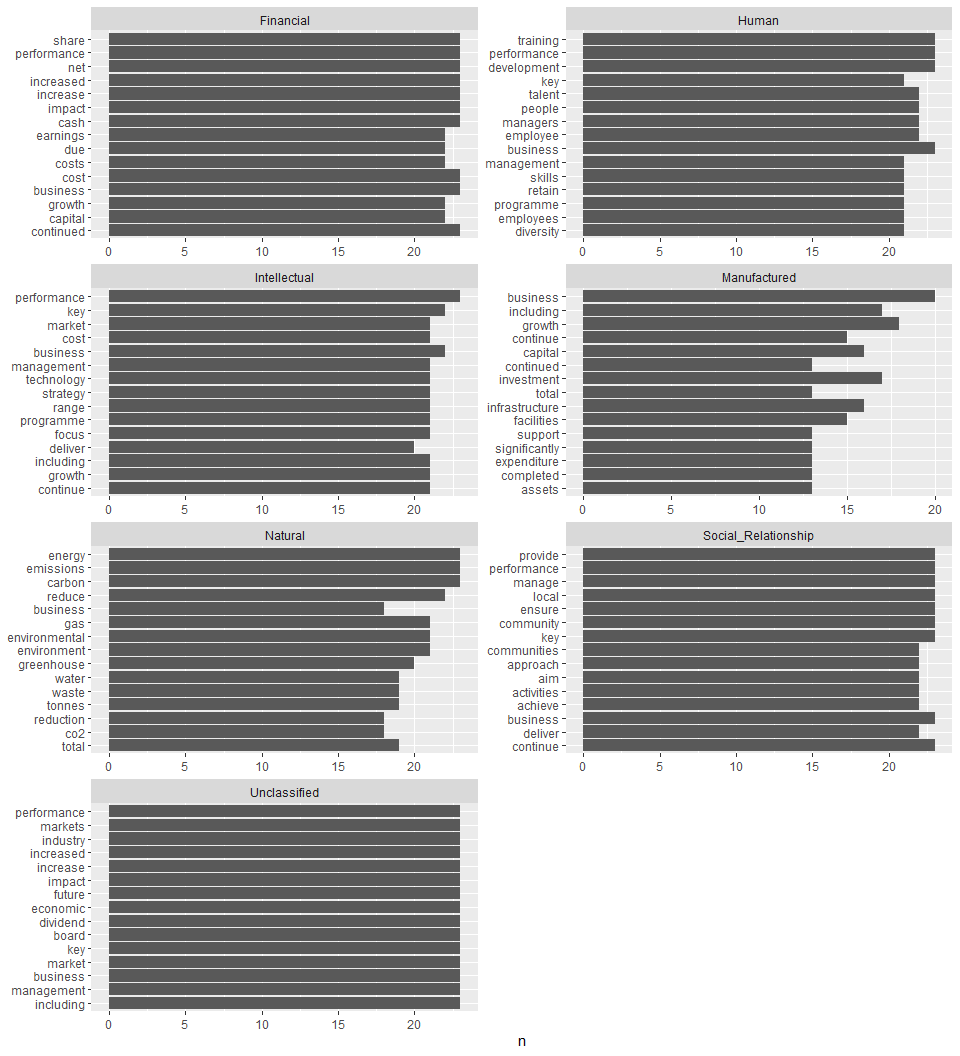
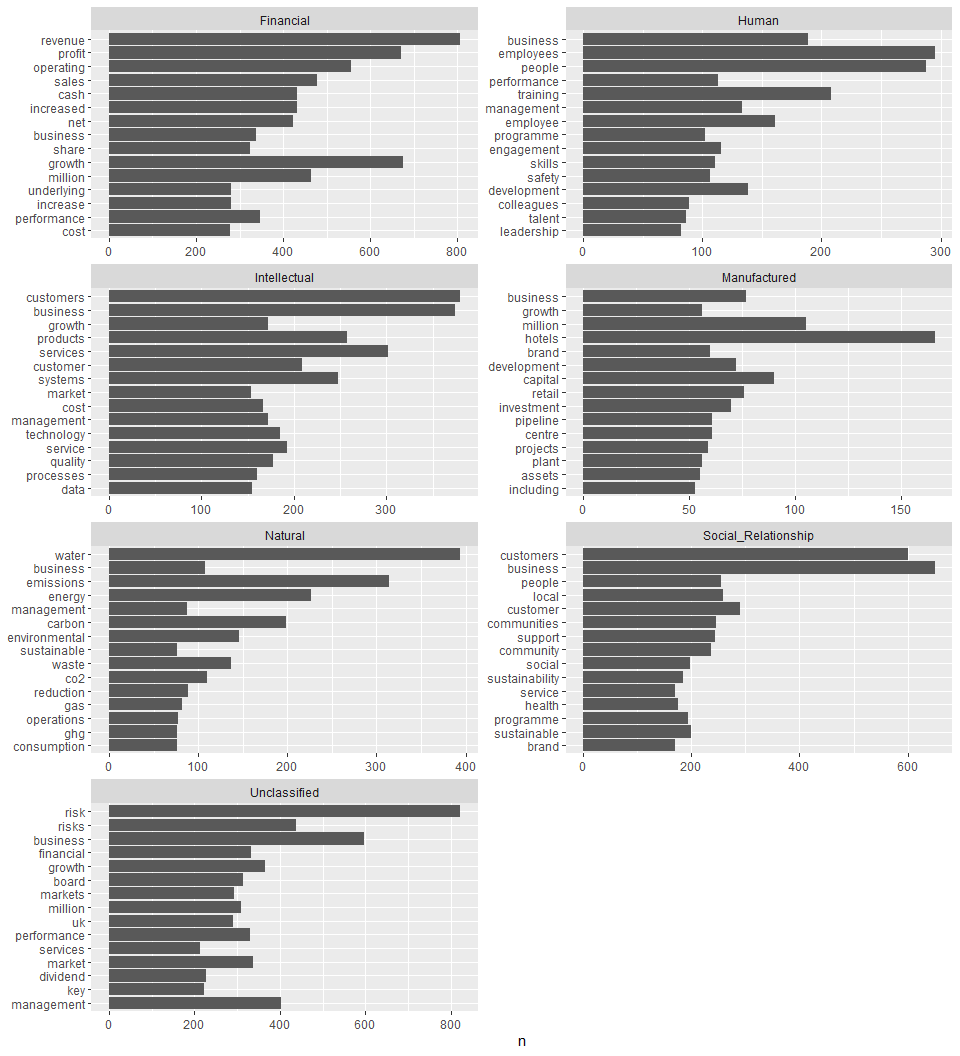
revised

diff --git a/index.md b/index.md
@@ -192,7 +192,6 @@ category.
 ``` r
 # Top 15 words 
 top15_tidy <- tidy_data %>%
-  count(word, theme, source) %>%
   filter(!str_detect(word, "^[0-9]*$")) %>%           # Exclude words that are just numbers
   count(word, theme) %>%
   group_by(theme) %>%
@@ -205,9 +204,9 @@ glimpse(top15_tidy)
 
     ## Rows: 105
     ## Columns: 3
-    ## $ word  <chr> "business", "cash", "continued", "cost", "impact", "increase", "…
+    ## $ word  <chr> "revenue", "growth", "profit", "operating", "sales", "million", …
     ## $ theme <chr> "Financial", "Financial", "Financial", "Financial", "Financial",…
-    ## $ n     <int> 23, 23, 23, 23, 23, 23, 23, 23, 23, 23, 22, 22, 22, 22, 22, 23, …
+    ## $ n     <int> 807, 676, 670, 555, 478, 464, 433, 431, 423, 348, 337, 324, 281,…
 
 Now we use `ggplot` to visualize the top 15 most frequent words for each
 reporting category.
